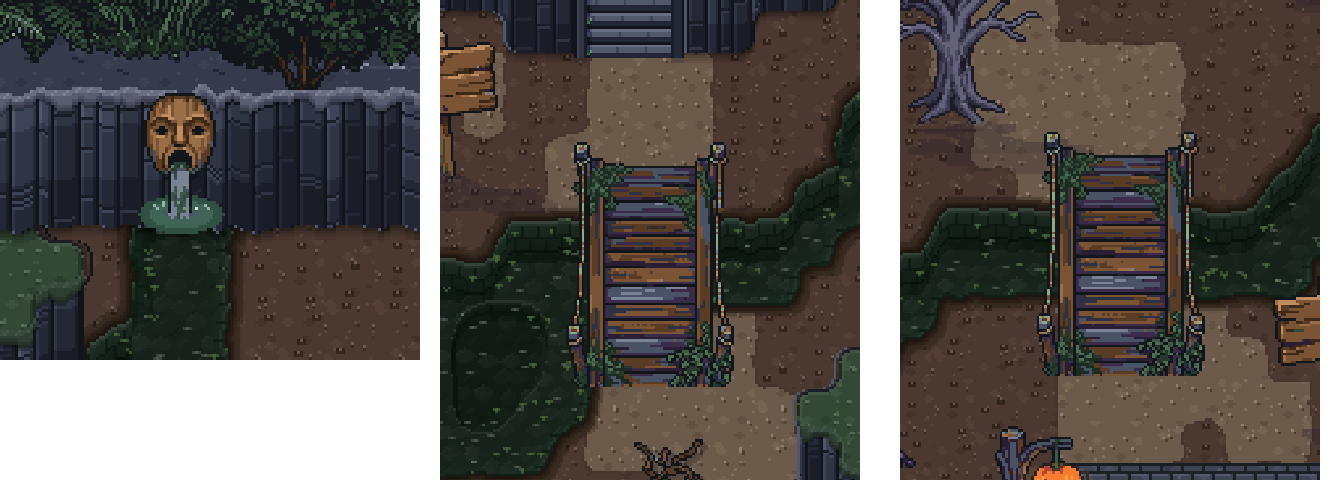
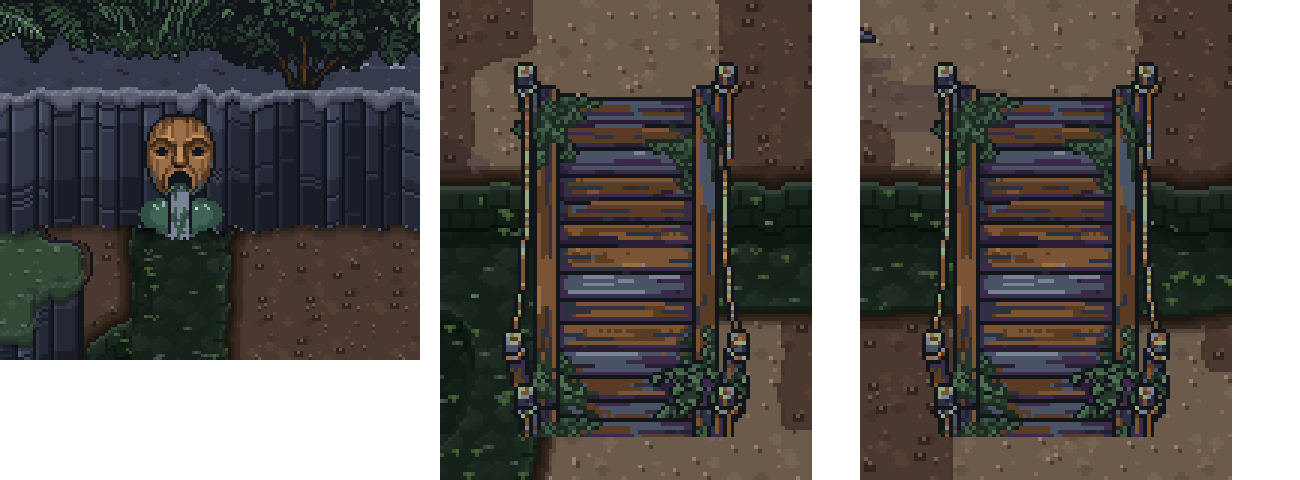
Karte 12: Stege mit Endpfosten auch am unteren Ende, Maske weiter nach unten
Claude-Session: https://claude.ai/code/session_01SaoYHKhnro4LFcPJqjaPsq

diff --git a/tools/karte12_objekte.py b/tools/karte12_objekte.py
@@ -220,7 +220,7 @@ def main():
         belegen(datei, x, y)
     # 0b) Bruecken (PixelLab-Stege) ueber den Fluss und der Wasserspeier (Puppenmaske) in der Bergwand an der Quelle
     for i_, (x0, y0, x1, y1, art) in enumerate(lay.get('bruecken', [])):
-        name_ = 'bruecke/00'                                  # beide Stege wie der obere
+        name_ = 'bruecke/00_enden'                            # beide Stege wie der obere, Endpfosten auch unten
         datei, h, zu, mitte = sprite(name_)
         cx_, cy_ = (x0 + x1 + 1) * T / 2.0, (y0 + y1 + 1) * T / 2.0
         hh_ = alpha[datei].shape[0]
@@ -231,7 +231,7 @@ def main():
     fx_, fy_ = lay['fluss'][0]
     datei, h, zu, mitte = sprite('quelle2/03_fluss')
     objekte.append({'datei': datei, 'basis': 'quelle2/03_fluss', 'x': int(round(fx_ * T - mitte)),
-                    'y': int(fy_ * T) - 6 - zu + 5, 'fuss': h, 'kachel': [int(fx_), 3], 'ebene': 0, 'fest_pos': True,
+                    'y': int(fy_ * T) - 6 - zu + 12, 'fuss': h, 'kachel': [int(fx_), 3], 'ebene': 0, 'fest_pos': True,
                     'an_wand': True, 'kein_schatten': True, 'quelle': True})
     # 1) grosse Objekte zuerst: Baumhaus, Puppentheater an der Arena, Riesen-Eiche, Trauerbaum
     bh = lay['baumhaus']
